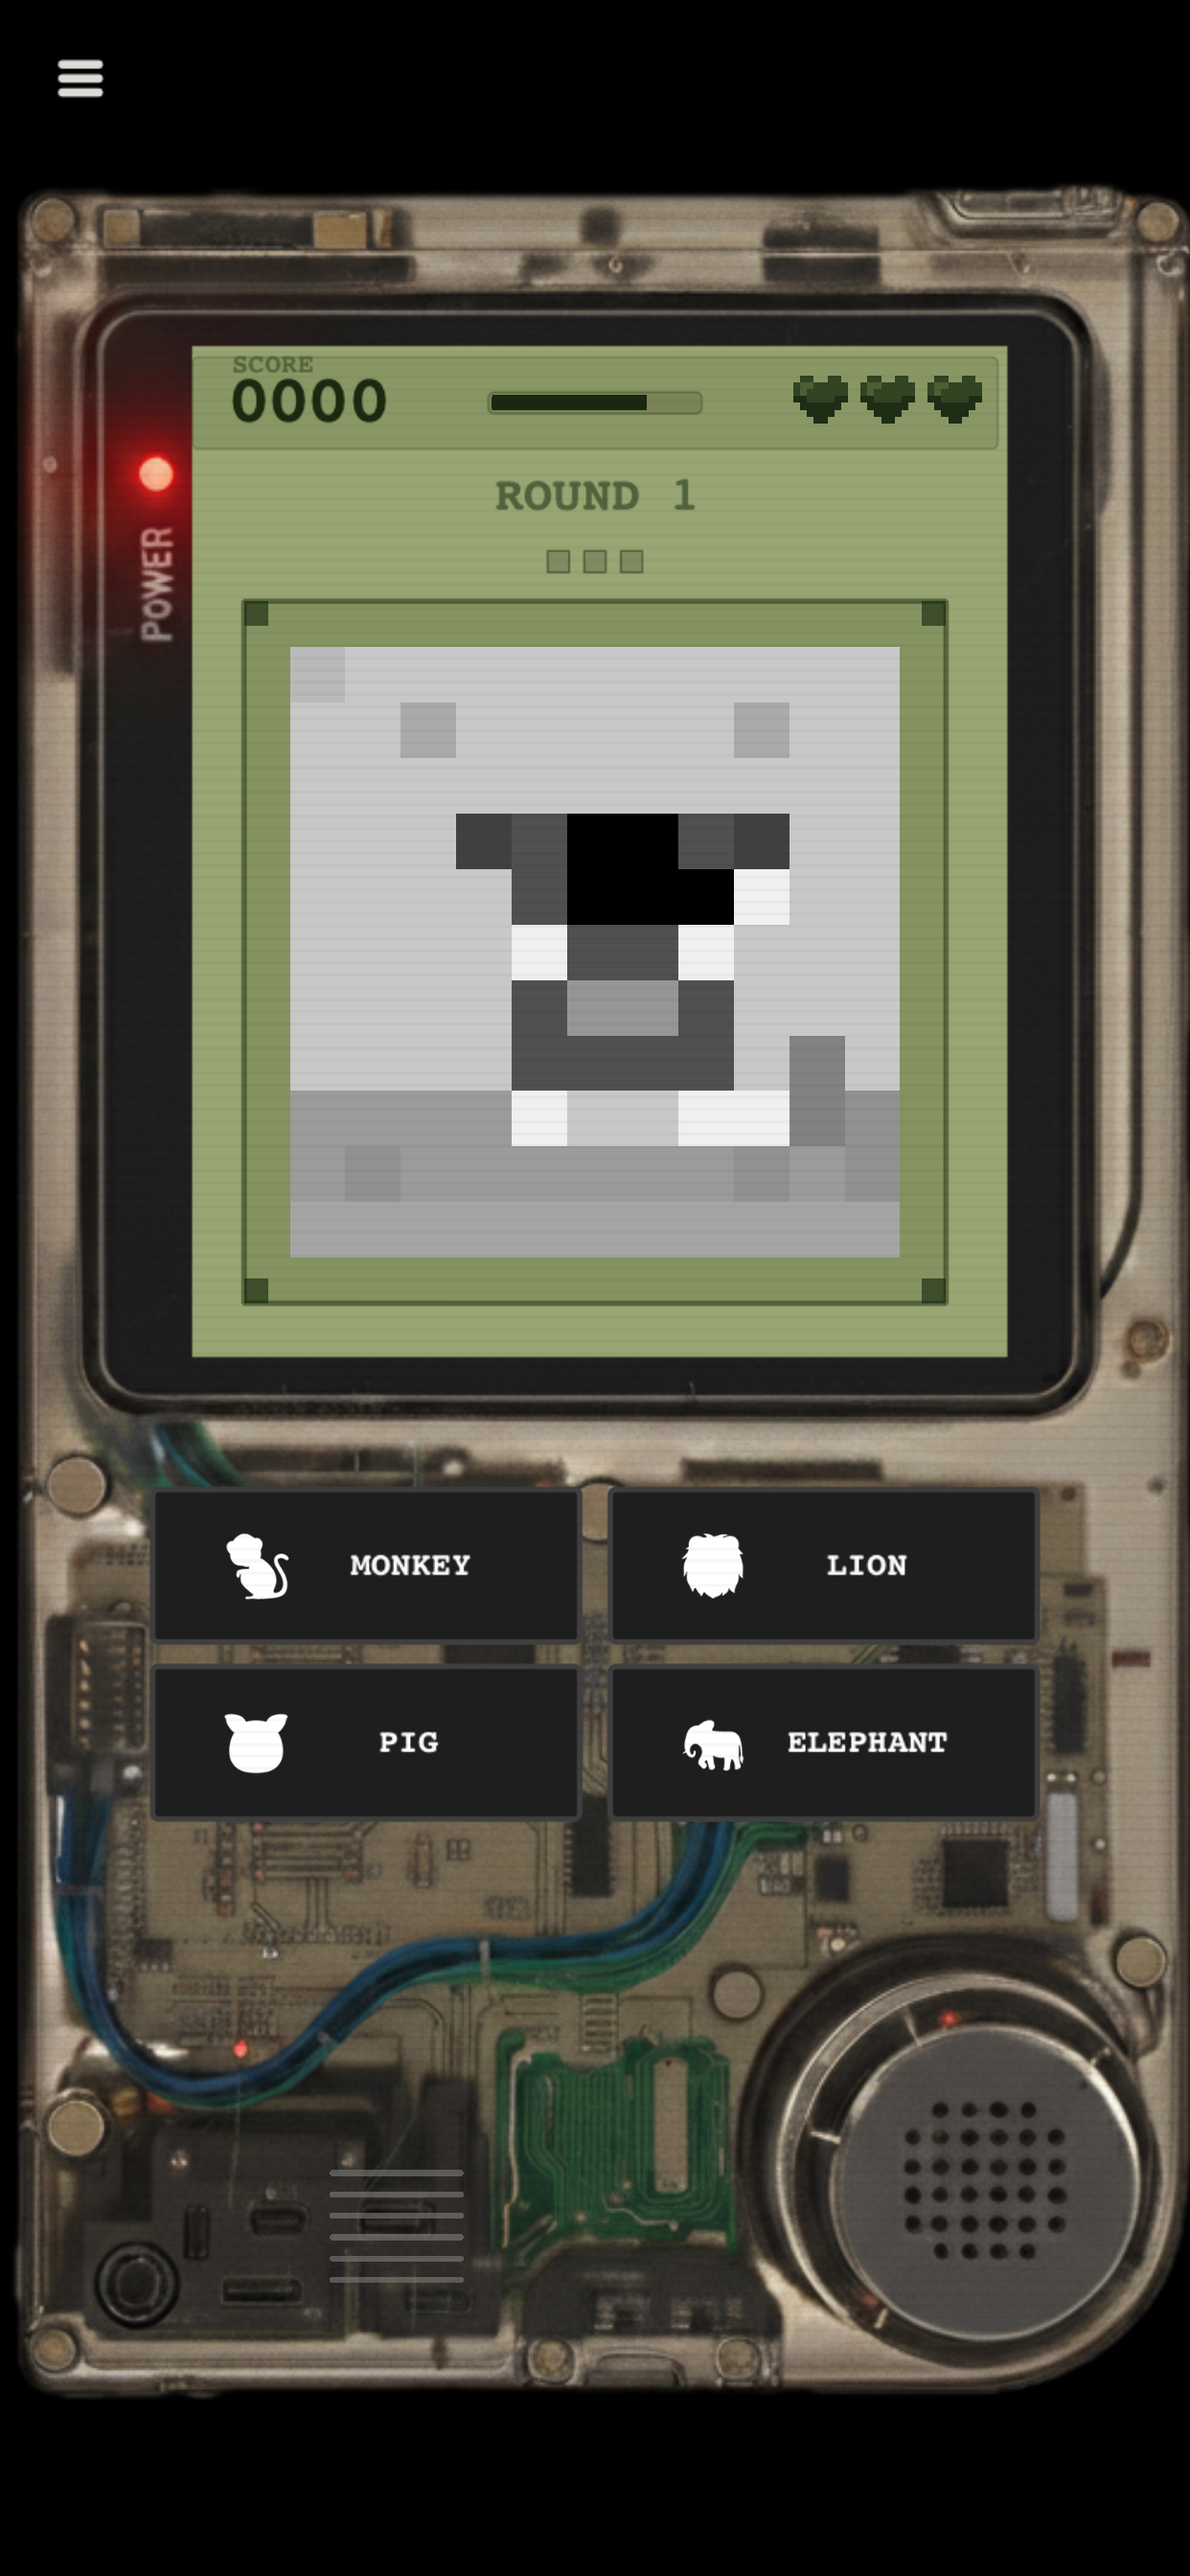
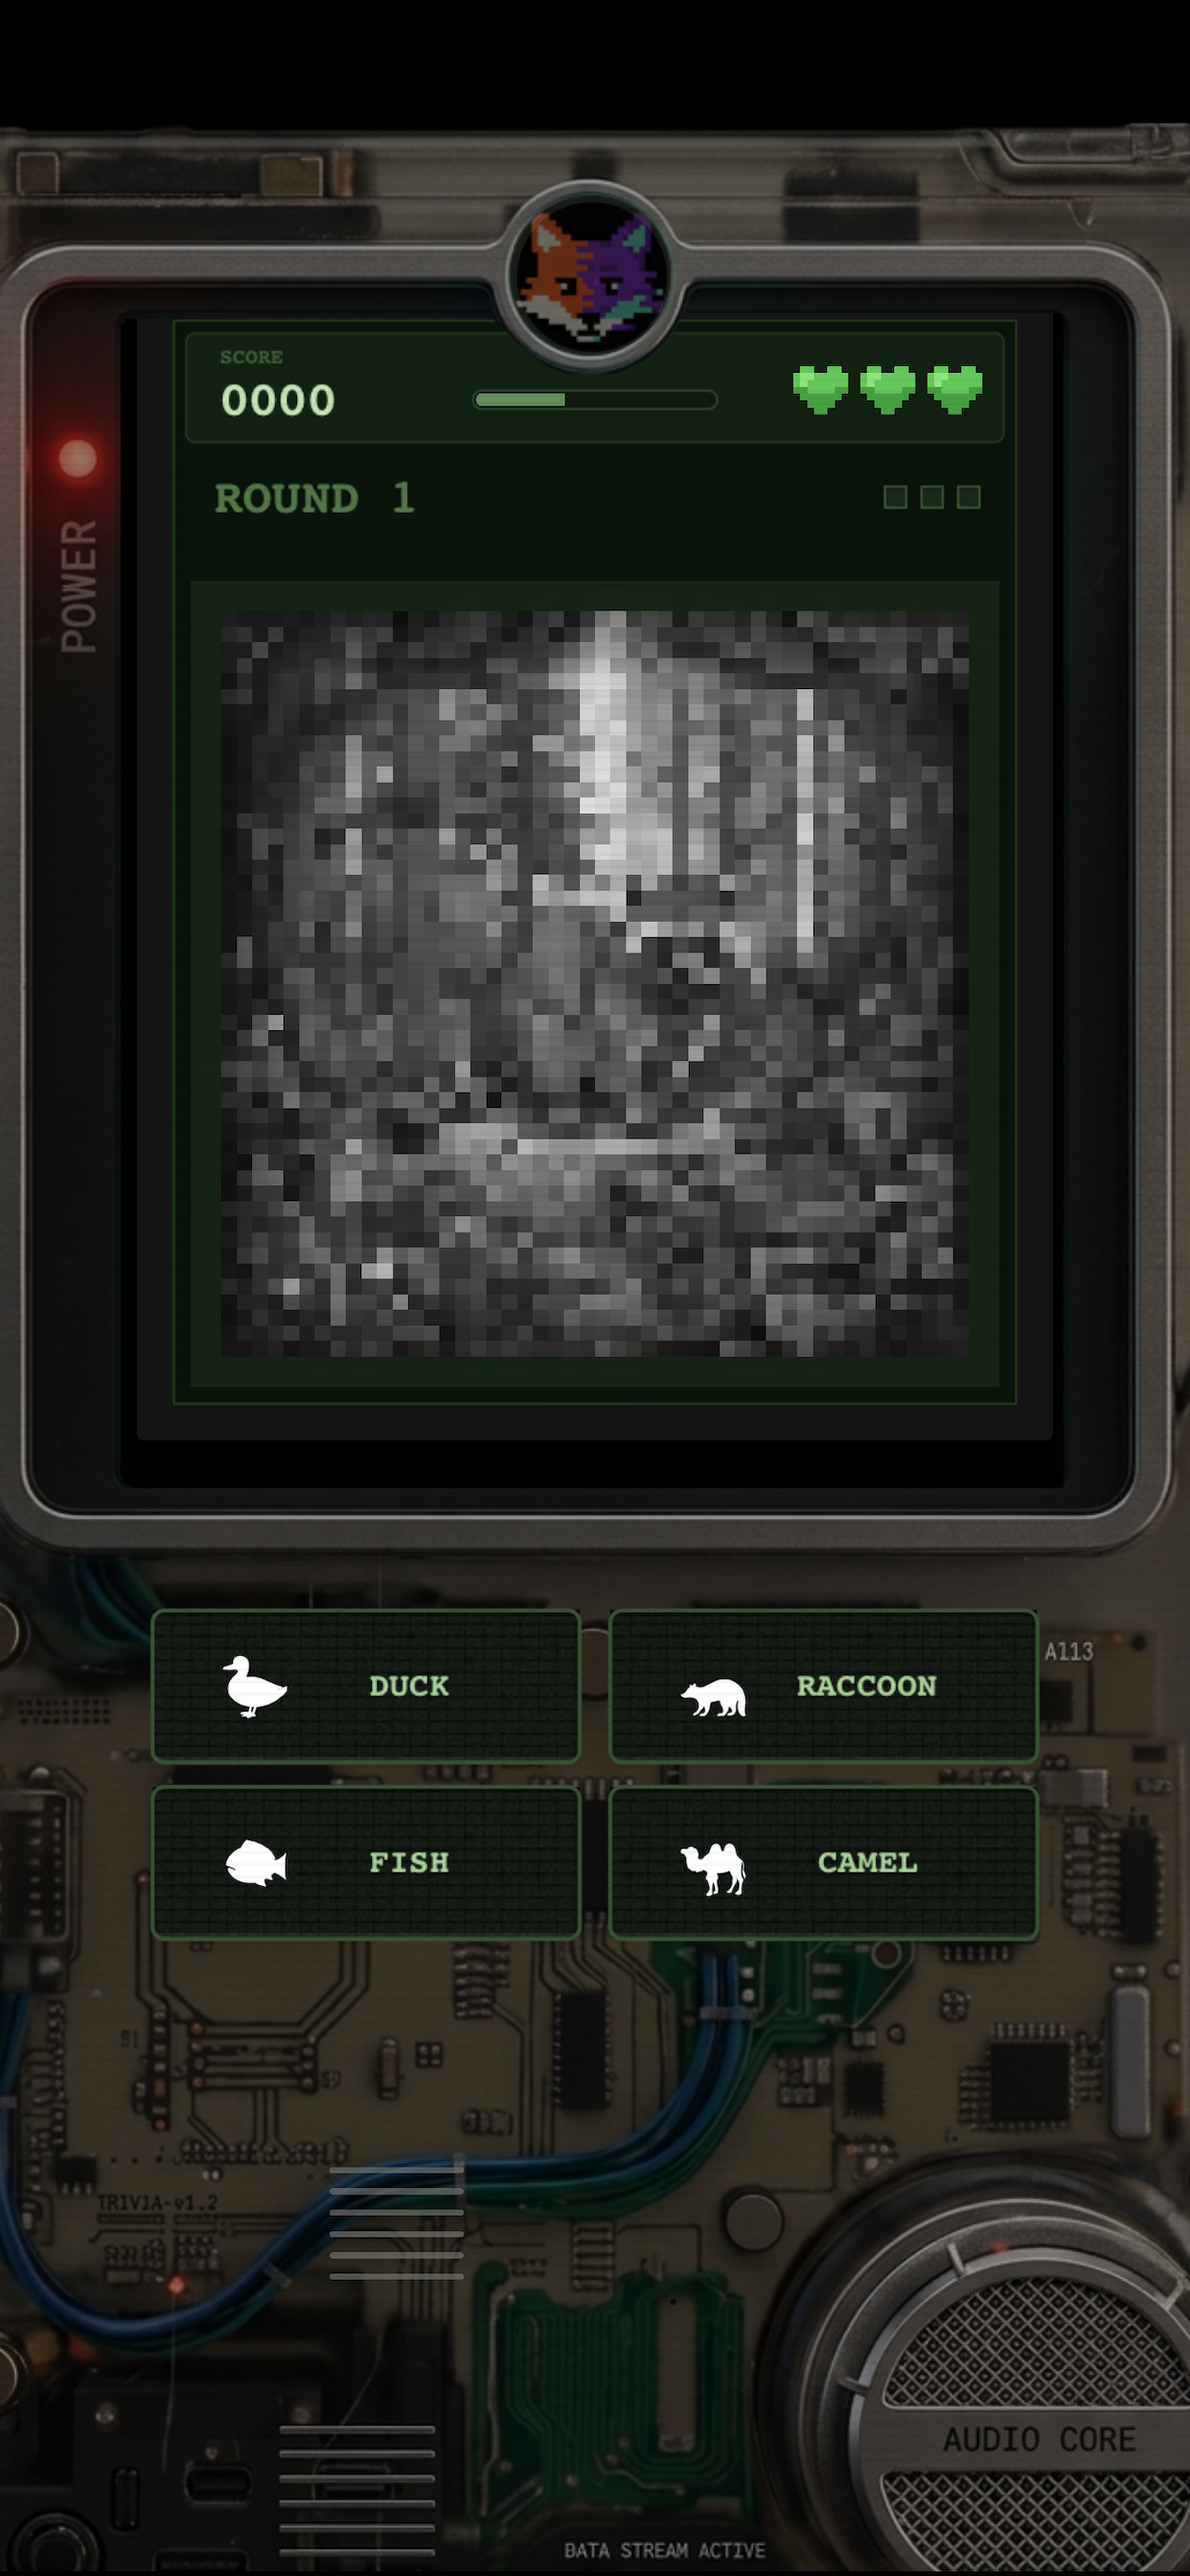
new images

diff --git a/pixeo.html b/pixeo.html
@@ -70,20 +70,32 @@
           <div class="sift-carousel-track">
             <div class="sift-carousel-slide">
               <img
-                src="images/pixeo/img1.png"
-                alt="PIXEO gameplay - pixel art sharpening from blurry to clear"
+                src="images/pixeo/img1.PNG"
+                alt="PIXEO gameplay - Round 1 with pixelated blurry image and four answer choices"
               />
             </div>
             <div class="sift-carousel-slide">
               <img
-                src="images/pixeo/img2.png"
-                alt="PIXEO gameplay - guessing retro pixel art animals"
+                src="images/pixeo/img2.PNG"
+                alt="PIXEO gameplay - correct rhino guess with +62 points in pixel art safari scene"
               />
             </div>
             <div class="sift-carousel-slide">
               <img
-                src="images/pixeo/img3.png"
-                alt="PIXEO gameplay - HYPER-FOCUS mode with 2x multiplier"
+                src="images/pixeo/img3.PNG"
+                alt="PIXEO main menu - Pick a Pack screen with Animals pack and leaderboards"
+              />
+            </div>
+            <div class="sift-carousel-slide">
+              <img
+                src="images/pixeo/img4.PNG"
+                alt="PIXEO gameplay - correct panther guess with +187 points in jungle scene"
+              />
+            </div>
+            <div class="sift-carousel-slide">
+              <img
+                src="images/pixeo/img5.PNG"
+                alt="PIXEO gameplay - Round 4 with pixel art clownfish in underwater coral scene"
               />
             </div>
           </div>
